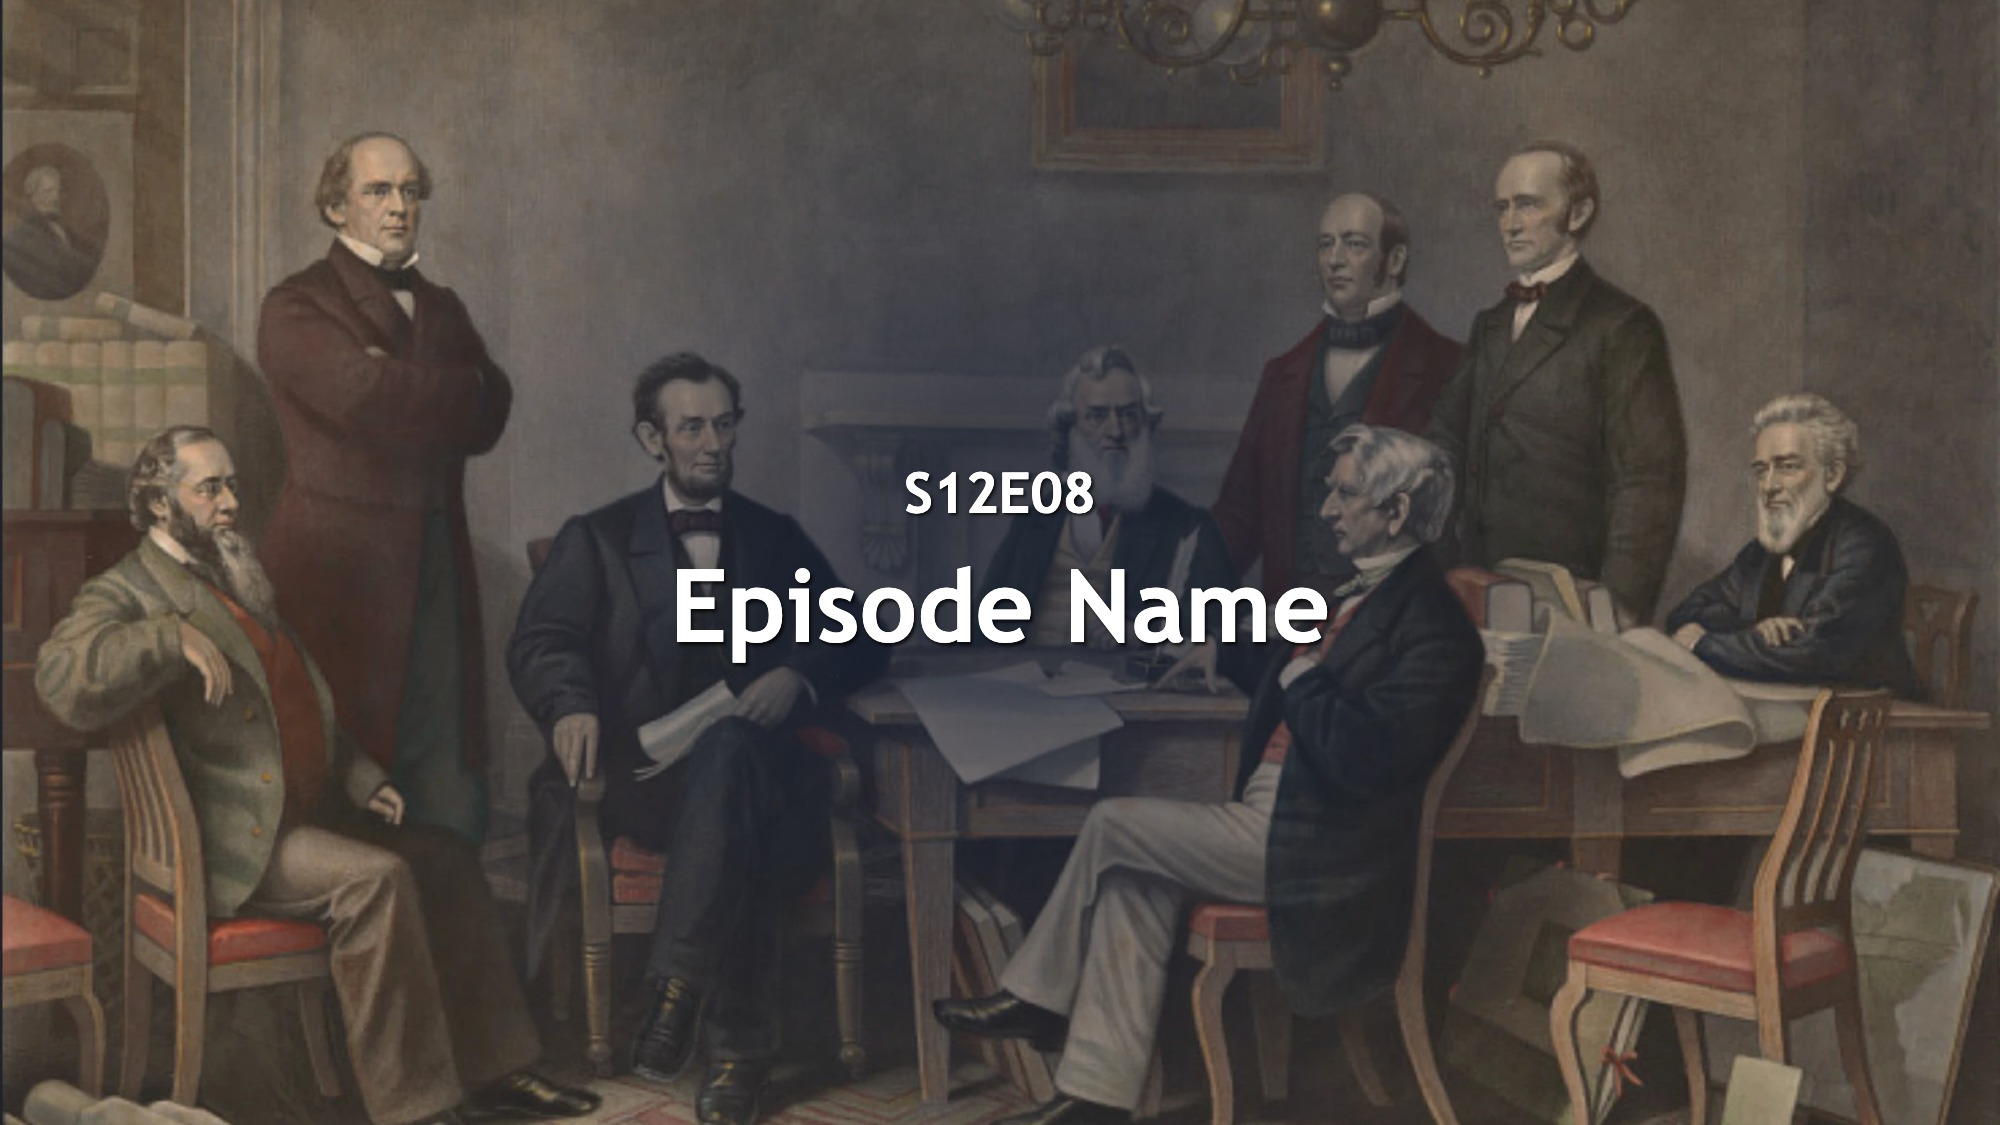
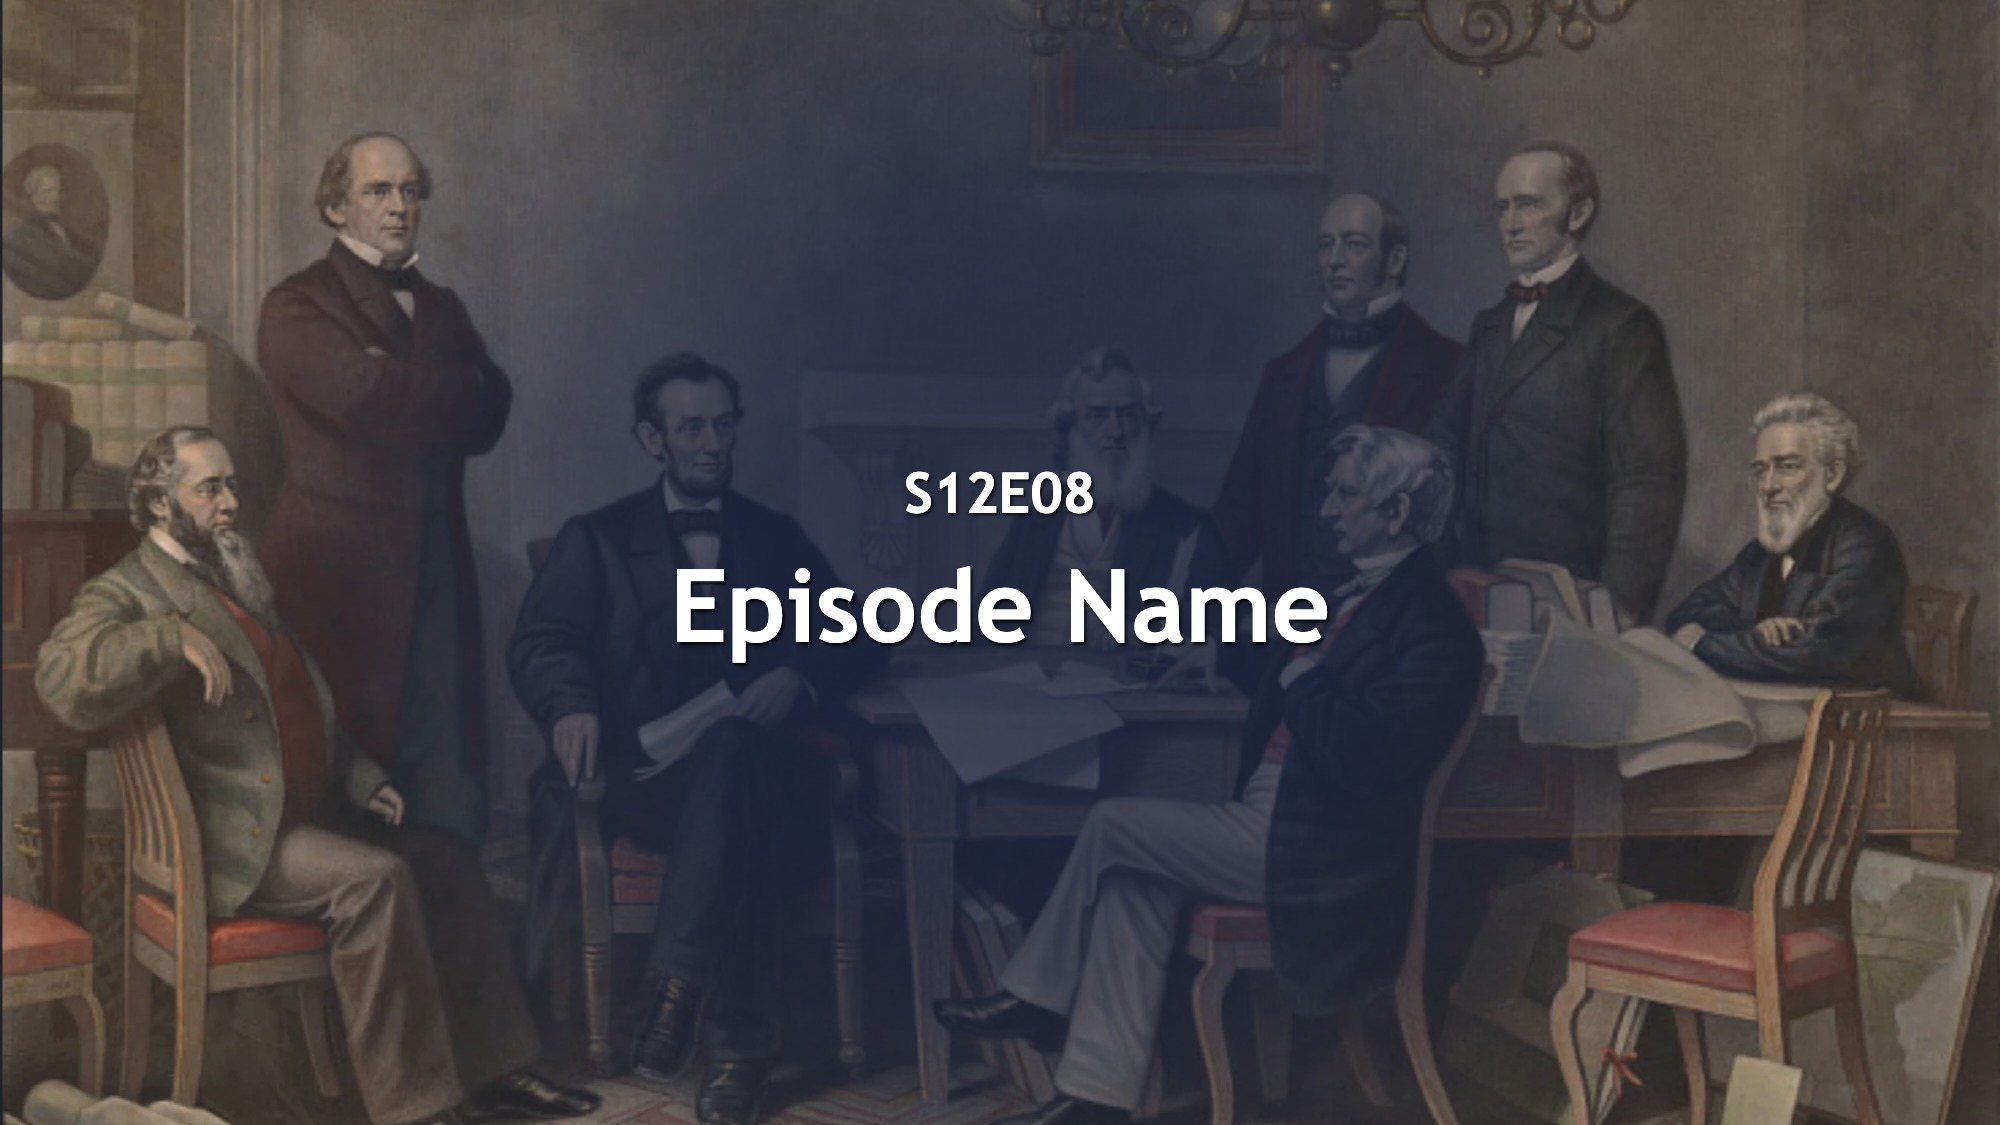
Widen and soften the bloom so it reads as a broad pool of colour rather than a tight disc

diff --git a/Jellyfin.Plugin.EpisodePosterGenerator/Services/Posters/Types/Bloom.cs b/Jellyfin.Plugin.EpisodePosterGenerator/Services/Posters/Types/Bloom.cs
@@ -9,13 +9,20 @@ namespace Jellyfin.Plugin.EpisodePosterGenerator.Services.Posters
 {
     public class BloomPosterGenerator : BasePosterGenerator
     {
-        // How far the bloom reaches, as a share of the size unit, so the glow keeps the same
-        // weight on a portrait poster as on a landscape one rather than stretching with the frame.
-        private const float RadiusRatio = 0.62f;
+        // How far the bloom reaches, as a share of the size unit, so the glow keeps the same weight
+        // on a portrait poster as on a landscape one rather than stretching with the frame. Kept
+        // well under half the short side on purpose: a radius that runs past the frame leaves tint
+        // on every edge, which reads as an overall haze instead of a pool of colour.
+        private const float RadiusRatio = 0.85f;
 
-        // The bloom holds its full colour this far out before it begins falling away, which keeps
-        // a readable pool of colour behind the text instead of a single bright point.
-        private const float CoreStop = 0.18f;
+        // The bloom holds its full colour only this far out, leaving nearly all of the radius to the
+        // eased falloff. That is what spreads the colour widely and gently; a long core concentrates
+        // it into a dark disc with a visible edge instead.
+        // The falloff is sampled at this many stops and eased rather than ramped straight down.
+        // A straight ramp changes slope abruptly where the core ends, and the eye reads that as the
+        // edge of a drawn disc; easing spreads it out so the pool reads as light.
+        private const int FalloffSteps = 6;
+        private const float CoreStop = 0.22f;
 
         // Share of the safe width the text may use, so lines wrap inside the bloom rather than
         // running out into the uncoloured corners.
@@ -73,11 +80,31 @@ namespace Jellyfin.Plugin.EpisodePosterGenerator.Services.Posters
 
             // Clamp means everything past the radius keeps the rim colour, so the corners of a wide
             // poster are covered by the same colour the bloom ends on.
+            var colors = new SKColor[FalloffSteps + 2];
+            var positions = new float[FalloffSteps + 2];
+
+            colors[0] = centreColor;
+            positions[0] = 0f;
+            colors[1] = centreColor;
+            positions[1] = CoreStop;
+
+            for (int step = 1; step <= FalloffSteps; step++)
+            {
+                var travelled = step / (float)FalloffSteps;
+
+                // Smoothstep: leaves the core gently instead of turning a corner there, and arrives
+                // at the rim gently instead of stopping dead.
+                var eased = travelled * travelled * (3f - (2f * travelled));
+
+                colors[step + 1] = Blend(centreColor, edgeColor, eased);
+                positions[step + 1] = CoreStop + (travelled * (1f - CoreStop));
+            }
+
             using var shader = SKShader.CreateRadialGradient(
                 new SKPoint(rect.MidX, rect.MidY),
                 radius,
-                new[] { centreColor, centreColor, edgeColor },
-                new[] { 0f, CoreStop, 1f },
+                colors,
+                positions,
                 SKShaderTileMode.Clamp);
 
             using var overlayPaint = new SKPaint
@@ -87,6 +114,20 @@ namespace Jellyfin.Plugin.EpisodePosterGenerator.Services.Posters
                 IsDither = true
             };
             skCanvas.DrawRect(rect, overlayPaint);
+        }
+
+        // Blend
+        // Mixes two colours, alpha included. A bloom that fades out has an edge colour holding the
+        // centre's own channels at zero alpha, so mixing towards it fades without drifting in hue.
+        private static SKColor Blend(SKColor from, SKColor to, float amount)
+        {
+            static byte Mix(byte a, byte b, float t) => (byte)Math.Clamp(a + ((b - a) * t), 0f, 255f);
+
+            return new SKColor(
+                Mix(from.Red, to.Red, amount),
+                Mix(from.Green, to.Green, amount),
+                Mix(from.Blue, to.Blue, amount),
+                Mix(from.Alpha, to.Alpha, amount));
         }
 
         // RenderTypography
